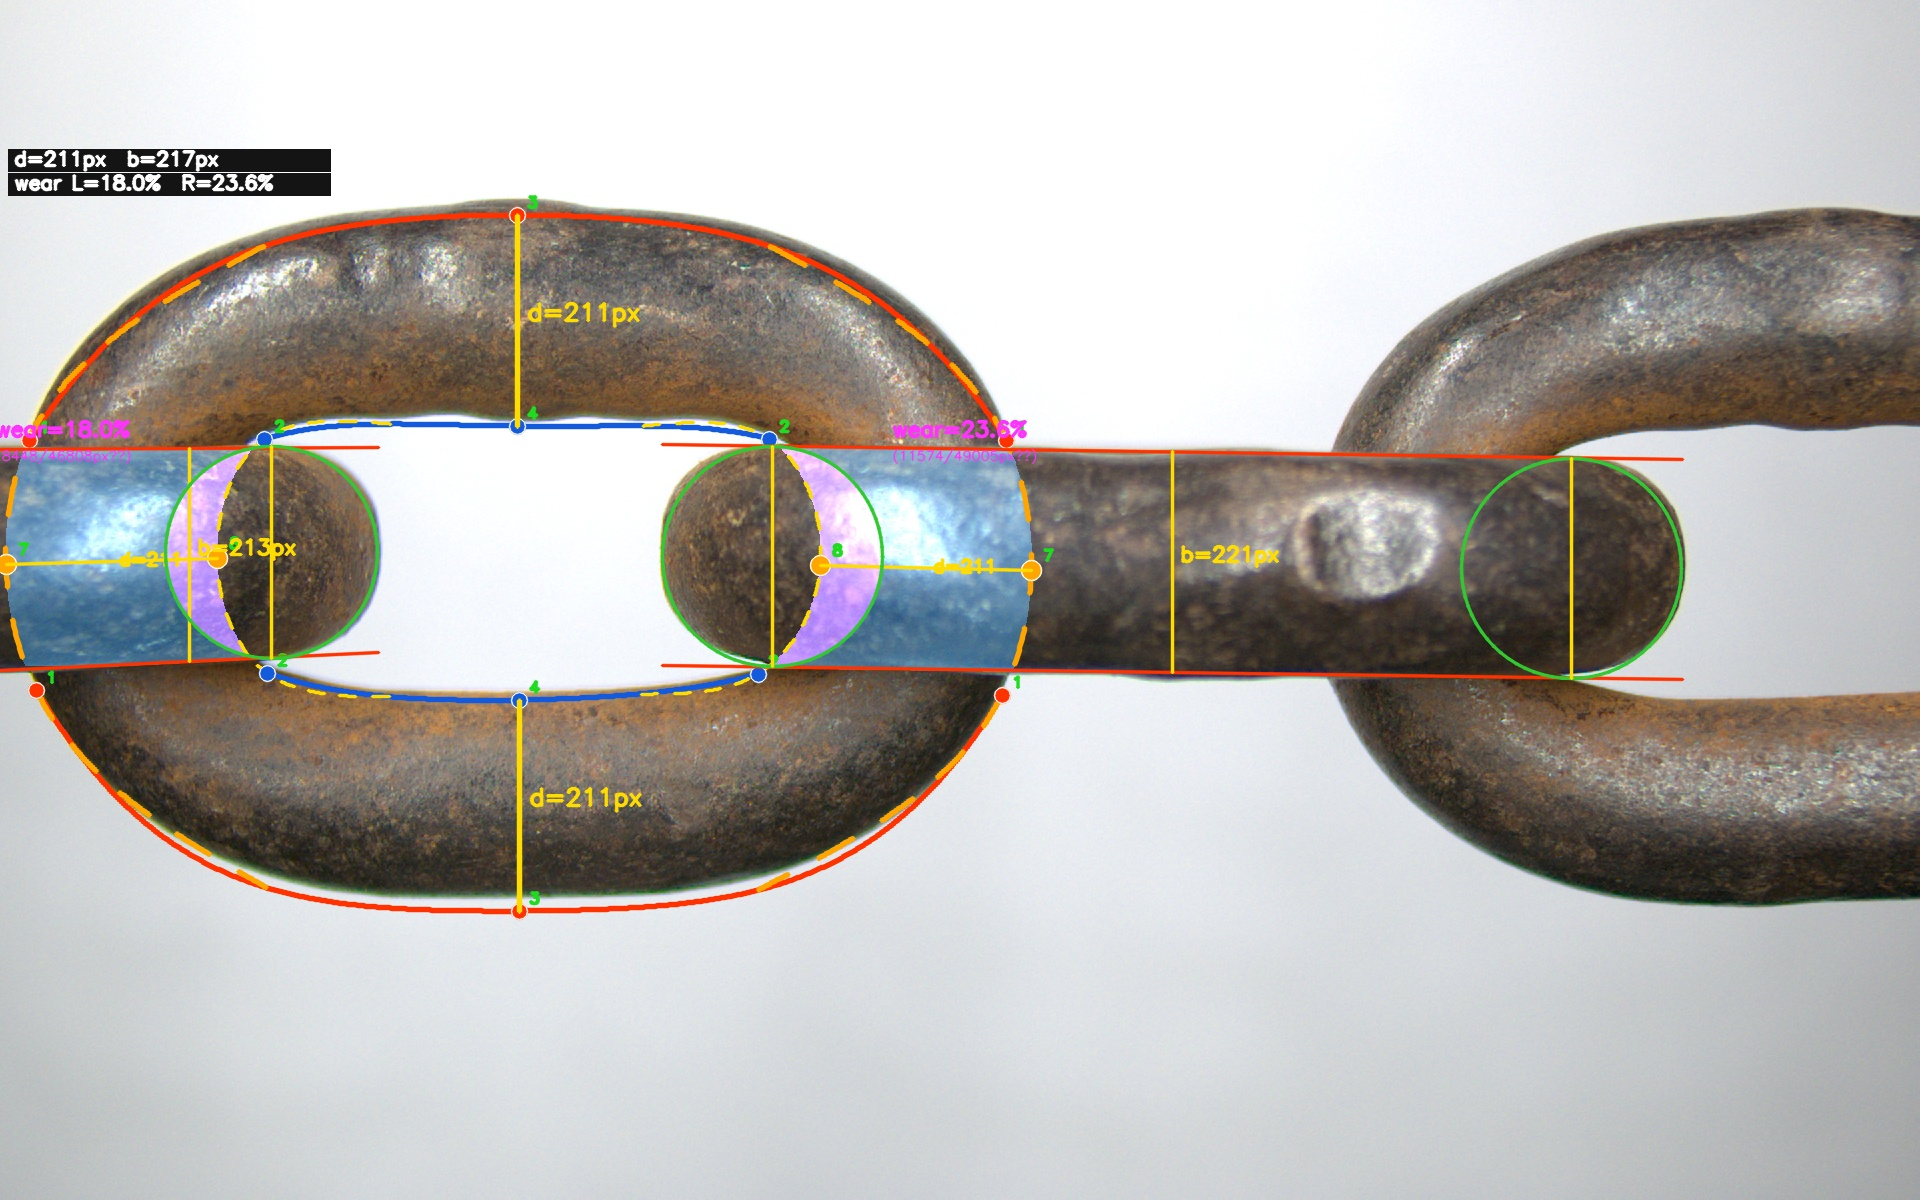
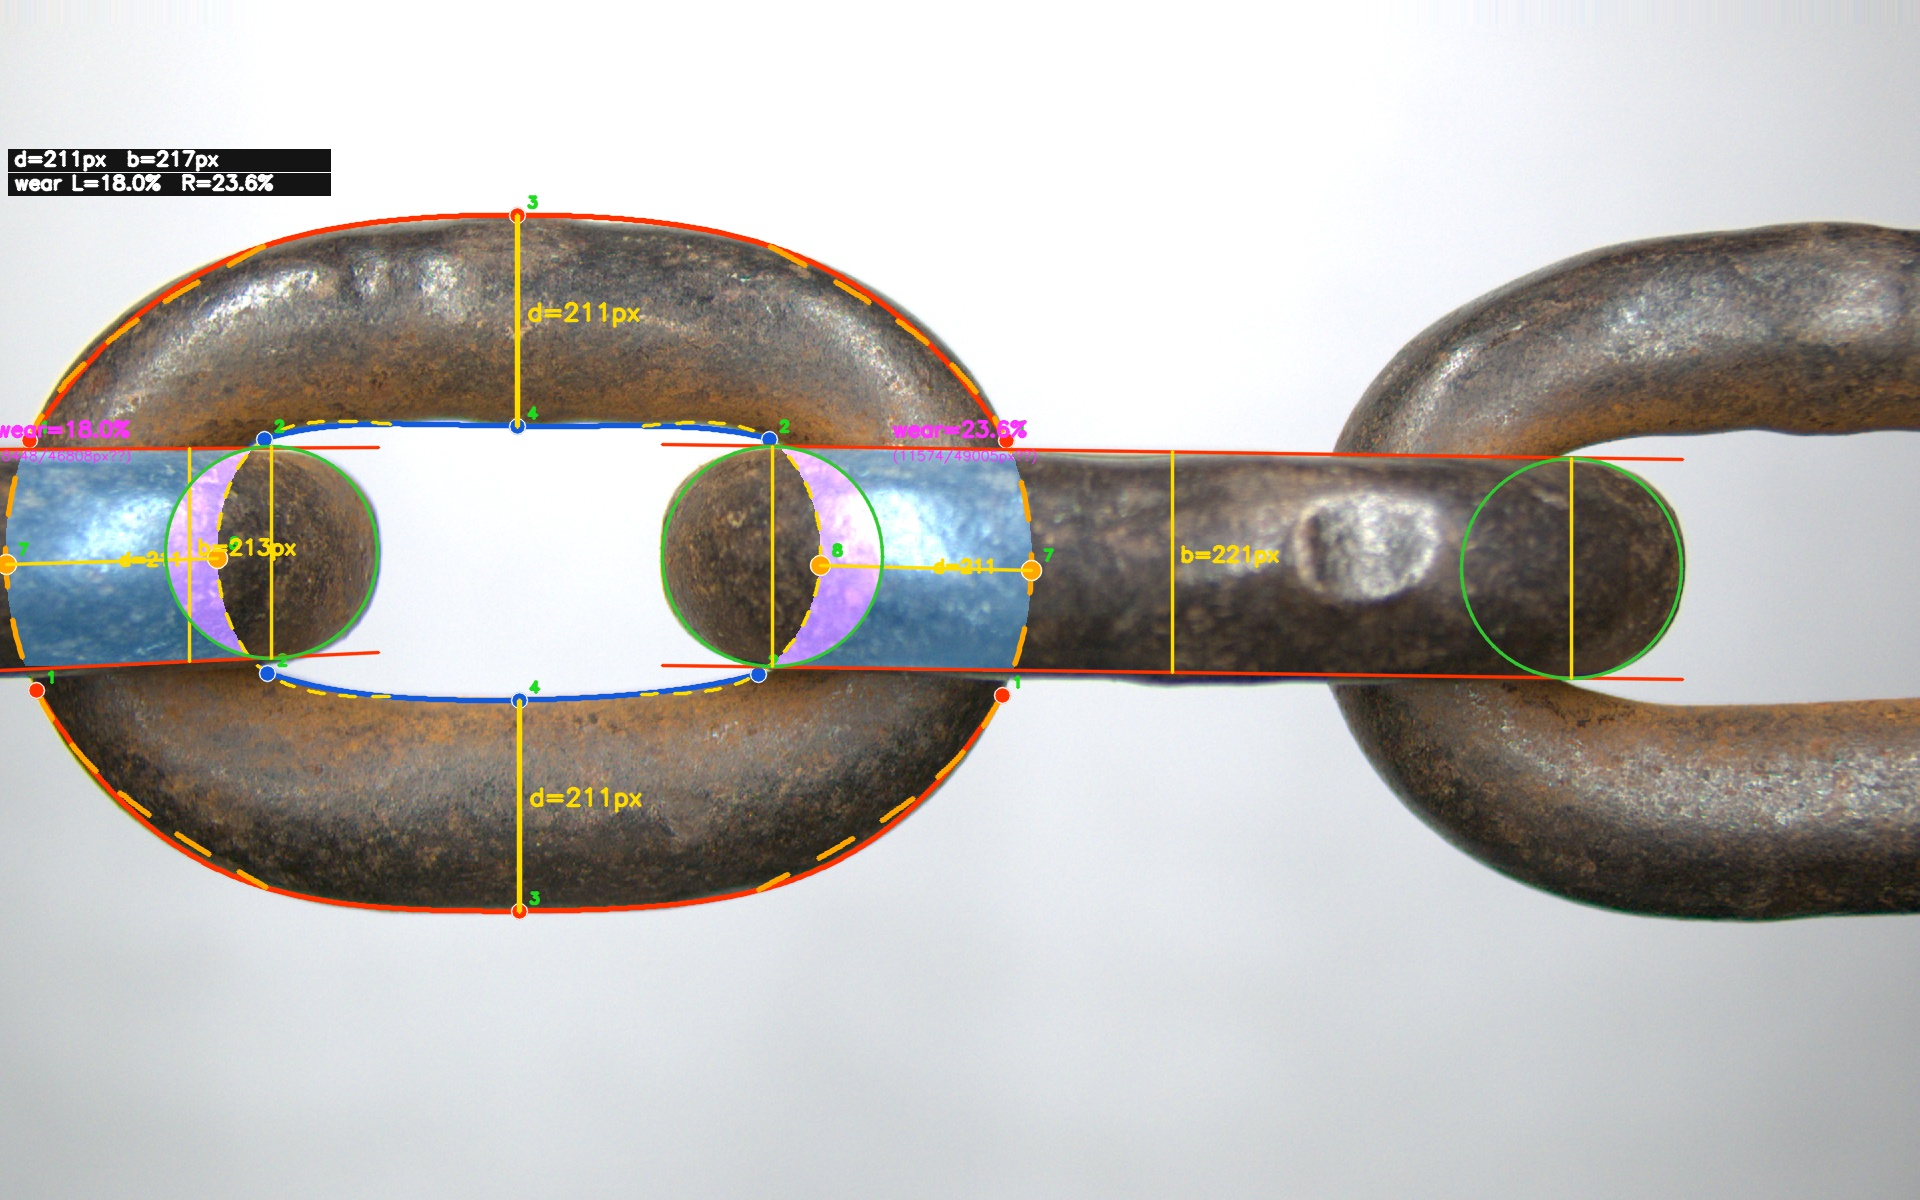
overlay with perspective transformed

diff --git a/run_offline_test.py b/run_offline_test.py
@@ -109,7 +109,7 @@ def main():
 
     # Step 8
     logger.info("── Step 8: full_recon overlay")
-    vis_full = draw_full_recon(img, results, hw, wear, vert_mask=full_mask)
+    vis_full = draw_full_recon(img_rect, results, hw, wear, vert_mask=full_mask)
     cv2.imwrite(str(save / f"full_recon_{stem}.jpg"), vis_full)
 
     elapsed = time.time() - t0
